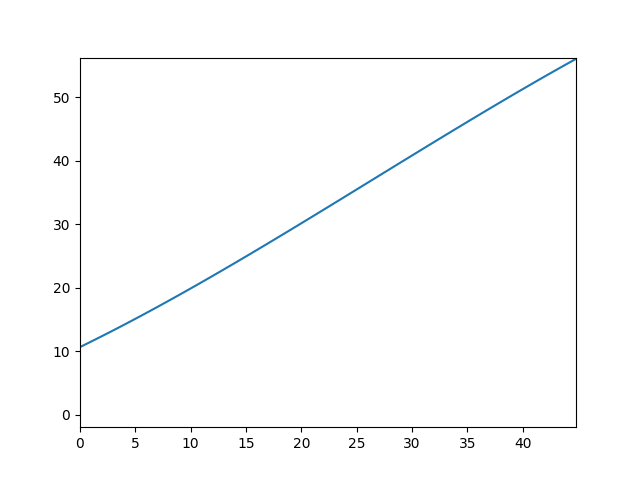
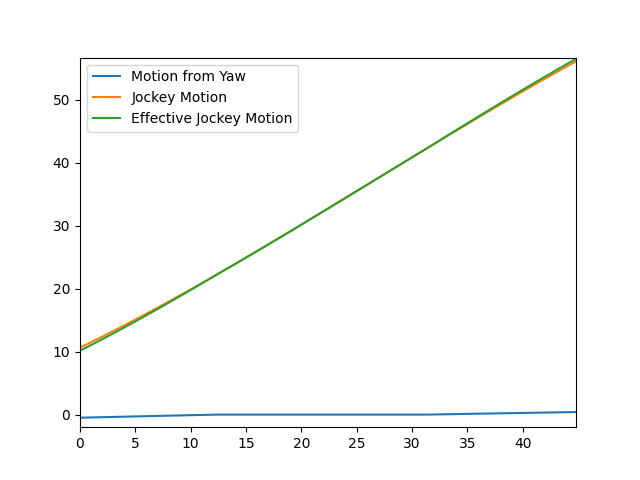
Update

diff --git a/derailleur_analysis.htm b/derailleur_analysis.htm
@@ -29,20 +29,20 @@
     <td>{{"%.2f" | format(info.physicalHighLimit)}}</td>
   </tr>
   <tr>
-    <th>Pull Ratio Averaged Across Pulling Runs</th>
-    <td>{{info["Pull Ratio Averaged Across Pulling Runs"]}}</td>
+    <th>Pull Ratio Averaged Across Pulling Runs (Ignoring Effect of Yaw)</th>
+    <td>{{info["Base Pull Ratio Averaged Across Pulling Runs"]}}</td>
   </tr>
   <tr>
-    <th>Pull Ratio Averaged Across Relaxing Runs</th>
-    <td>{{info["Pull Ratio Averaged Across Relaxing Runs"]}}</td>
+    <th>Pull Ratio Averaged Across Relaxing Runs (Ignoring Effect of Yaw)</th>
+    <td>{{info["Base Pull Ratio Averaged Across Relaxing Runs"]}}</td>
   </tr>
   <tr>
-    <th>Pull Ratio Averaged Across All Runs</th>
-    <td>{{info["Pull Ratio Averaged Across All Runs"]}}</td>
+    <th>Pull Ratio Averaged Across All Runs (Ignoring Effect of Yaw)</th>
+    <td>{{info["Base Pull Ratio Averaged Across All Runs"]}}</td>
   </tr>
   <tr>
-    <th>Pull Ratio 95% Confidence Interval</th>
-    <td>{{info["Pull Ratio 95% Confidence Interval"]}}</td>
+    <th>Pull Ratio 95% Confidence Interval (Ignoring Effect of Yaw)</th>
+    <td>{{info["Base Pull Ratio 95% Confidence Interval"]}}</td>
   </tr>
   {% if info.dataVideo %}
   <tr>

diff --git a/derailleurs/Microshift RD-M6205AM/default.htm b/derailleurs/Microshift RD-M6205AM/default.htm
@@ -21,7 +21,7 @@ Microshift Advent X 10-Speed
   </tr>
   <tr>
     <th>Pull Ratio</th>
-    <td>1.05</td>
+    <td>1.06</td>
   </tr>
   <tr>
     <th>Curve Coefficients</th>
@@ -36,19 +36,19 @@ Microshift Advent X 10-Speed
     <td>56.08</td>
   </tr>
   <tr>
-    <th>Pull Ratio Averaged Across Pulling Runs</th>
+    <th>Pull Ratio Averaged Across Pulling Runs (Ignoring Effect of Yaw)</th>
     <td>1.048 +/- 0.011</td>
   </tr>
   <tr>
-    <th>Pull Ratio Averaged Across Relaxing Runs</th>
+    <th>Pull Ratio Averaged Across Relaxing Runs (Ignoring Effect of Yaw)</th>
     <td>1.047 +/- 0.014</td>
   </tr>
   <tr>
-    <th>Pull Ratio Averaged Across All Runs</th>
+    <th>Pull Ratio Averaged Across All Runs (Ignoring Effect of Yaw)</th>
     <td>1.048 +/- 0.013</td>
   </tr>
   <tr>
-    <th>Pull Ratio 95% Confidence Interval</th>
+    <th>Pull Ratio 95% Confidence Interval (Ignoring Effect of Yaw)</th>
     <td>1.035 to 1.061</td>
   </tr>
   

diff --git a/derailleurs/Shimano Tiagra 4600 10-Speed/default.htm b/derailleurs/Shimano Tiagra 4600 10-Speed/default.htm
@@ -36,19 +36,19 @@ Shimano Tiagra 4600 10-Speed
     <td>49.72</td>
   </tr>
   <tr>
-    <th>Pull Ratio Averaged Across Pulling Runs</th>
+    <th>Pull Ratio Averaged Across Pulling Runs (Ignoring Effect of Yaw)</th>
     <td>1.668 +/- 0.011</td>
   </tr>
   <tr>
-    <th>Pull Ratio Averaged Across Relaxing Runs</th>
+    <th>Pull Ratio Averaged Across Relaxing Runs (Ignoring Effect of Yaw)</th>
     <td>1.679 +/- 0.015</td>
   </tr>
   <tr>
-    <th>Pull Ratio Averaged Across All Runs</th>
+    <th>Pull Ratio Averaged Across All Runs (Ignoring Effect of Yaw)</th>
     <td>1.674 +/- 0.017</td>
   </tr>
   <tr>
-    <th>Pull Ratio 95% Confidence Interval</th>
+    <th>Pull Ratio 95% Confidence Interval (Ignoring Effect of Yaw)</th>
     <td>1.657 to 1.691</td>
   </tr>
   

diff --git a/derailleurs/Shimano Ultegra RX 11-Speed/default.htm b/derailleurs/Shimano Ultegra RX 11-Speed/default.htm
@@ -36,19 +36,19 @@ Shimano Ultegra RX 11-Speed
     <td>56.42</td>
   </tr>
   <tr>
-    <th>Pull Ratio Averaged Across Pulling Runs</th>
+    <th>Pull Ratio Averaged Across Pulling Runs (Ignoring Effect of Yaw)</th>
     <td>1.509 +/- 0.010</td>
   </tr>
   <tr>
-    <th>Pull Ratio Averaged Across Relaxing Runs</th>
+    <th>Pull Ratio Averaged Across Relaxing Runs (Ignoring Effect of Yaw)</th>
     <td>1.510 +/- 0.006</td>
   </tr>
   <tr>
-    <th>Pull Ratio Averaged Across All Runs</th>
+    <th>Pull Ratio Averaged Across All Runs (Ignoring Effect of Yaw)</th>
     <td>1.509 +/- 0.008</td>
   </tr>
   <tr>
-    <th>Pull Ratio 95% Confidence Interval</th>
+    <th>Pull Ratio 95% Confidence Interval (Ignoring Effect of Yaw)</th>
     <td>1.501 to 1.517</td>
   </tr>
   

diff --git a/derailleurs/Campagnolo Ekar/default.htm b/derailleurs/Campagnolo Ekar/default.htm
@@ -36,19 +36,19 @@ Campagnolo Ekar 13-Speed
     <td>56.14</td>
   </tr>
   <tr>
-    <th>Pull Ratio Averaged Across Pulling Runs</th>
+    <th>Pull Ratio Averaged Across Pulling Runs (Ignoring Effect of Yaw)</th>
     <td>1.278 +/- 0.009</td>
   </tr>
   <tr>
-    <th>Pull Ratio Averaged Across Relaxing Runs</th>
+    <th>Pull Ratio Averaged Across Relaxing Runs (Ignoring Effect of Yaw)</th>
     <td>1.286 +/- 0.014</td>
   </tr>
   <tr>
-    <th>Pull Ratio Averaged Across All Runs</th>
+    <th>Pull Ratio Averaged Across All Runs (Ignoring Effect of Yaw)</th>
     <td>1.282 +/- 0.015</td>
   </tr>
   <tr>
-    <th>Pull Ratio 95% Confidence Interval</th>
+    <th>Pull Ratio 95% Confidence Interval (Ignoring Effect of Yaw)</th>
     <td>1.268 to 1.297</td>
   </tr>
   

diff --git a/derailleurs/Shimano Ultegra 6500 9-Speed/default.htm b/derailleurs/Shimano Ultegra 6500 9-Speed/default.htm
@@ -36,19 +36,19 @@ Shimano Ultegra 9-Speed
     <td>47.69</td>
   </tr>
   <tr>
-    <th>Pull Ratio Averaged Across Pulling Runs</th>
+    <th>Pull Ratio Averaged Across Pulling Runs (Ignoring Effect of Yaw)</th>
     <td>1.669 +/- 0.000</td>
   </tr>
   <tr>
-    <th>Pull Ratio Averaged Across Relaxing Runs</th>
+    <th>Pull Ratio Averaged Across Relaxing Runs (Ignoring Effect of Yaw)</th>
     <td>1.596 +/- 0.000</td>
   </tr>
   <tr>
-    <th>Pull Ratio Averaged Across All Runs</th>
+    <th>Pull Ratio Averaged Across All Runs (Ignoring Effect of Yaw)</th>
     <td>1.632 +/- 0.074</td>
   </tr>
   <tr>
-    <th>Pull Ratio 95% Confidence Interval</th>
+    <th>Pull Ratio 95% Confidence Interval (Ignoring Effect of Yaw)</th>
     <td>1.559 to 1.706</td>
   </tr>
   

diff --git a/derailleurs/Shimano Deore 11-Speed/default.htm b/derailleurs/Shimano Deore 11-Speed/default.htm
@@ -36,19 +36,19 @@ Shimano Deore 11-Speed
     <td>54.56</td>
   </tr>
   <tr>
-    <th>Pull Ratio Averaged Across Pulling Runs</th>
+    <th>Pull Ratio Averaged Across Pulling Runs (Ignoring Effect of Yaw)</th>
     <td>1.081 +/- 0.001</td>
   </tr>
   <tr>
-    <th>Pull Ratio Averaged Across Relaxing Runs</th>
+    <th>Pull Ratio Averaged Across Relaxing Runs (Ignoring Effect of Yaw)</th>
     <td>1.069 +/- 0.003</td>
   </tr>
   <tr>
-    <th>Pull Ratio Averaged Across All Runs</th>
+    <th>Pull Ratio Averaged Across All Runs (Ignoring Effect of Yaw)</th>
     <td>1.075 +/- 0.012</td>
   </tr>
   <tr>
-    <th>Pull Ratio 95% Confidence Interval</th>
+    <th>Pull Ratio 95% Confidence Interval (Ignoring Effect of Yaw)</th>
     <td>1.063 to 1.087</td>
   </tr>
   

diff --git a/derailleurs/Shimano Deore M5120/default.htm b/derailleurs/Shimano Deore M5120/default.htm
@@ -36,19 +36,19 @@ Shimano Deore 11-Speed
     <td>52.21</td>
   </tr>
   <tr>
-    <th>Pull Ratio Averaged Across Pulling Runs</th>
+    <th>Pull Ratio Averaged Across Pulling Runs (Ignoring Effect of Yaw)</th>
     <td>1.112 +/- 0.006</td>
   </tr>
   <tr>
-    <th>Pull Ratio Averaged Across Relaxing Runs</th>
+    <th>Pull Ratio Averaged Across Relaxing Runs (Ignoring Effect of Yaw)</th>
     <td>1.094 +/- 0.009</td>
   </tr>
   <tr>
-    <th>Pull Ratio Averaged Across All Runs</th>
+    <th>Pull Ratio Averaged Across All Runs (Ignoring Effect of Yaw)</th>
     <td>1.103 +/- 0.020</td>
   </tr>
   <tr>
-    <th>Pull Ratio 95% Confidence Interval</th>
+    <th>Pull Ratio 95% Confidence Interval (Ignoring Effect of Yaw)</th>
     <td>1.083 to 1.123</td>
   </tr>
   

diff --git a/derailleurs/Shimano Deore M6100/default.htm b/derailleurs/Shimano Deore M6100/default.htm
@@ -36,19 +36,19 @@ Shimano Deore 12-Speed
     <td>56.50</td>
   </tr>
   <tr>
-    <th>Pull Ratio Averaged Across Pulling Runs</th>
+    <th>Pull Ratio Averaged Across Pulling Runs (Ignoring Effect of Yaw)</th>
     <td>1.073 +/- 0.002</td>
   </tr>
   <tr>
-    <th>Pull Ratio Averaged Across Relaxing Runs</th>
+    <th>Pull Ratio Averaged Across Relaxing Runs (Ignoring Effect of Yaw)</th>
     <td>1.074 +/- 0.001</td>
   </tr>
   <tr>
-    <th>Pull Ratio Averaged Across All Runs</th>
+    <th>Pull Ratio Averaged Across All Runs (Ignoring Effect of Yaw)</th>
     <td>1.073 +/- 0.002</td>
   </tr>
   <tr>
-    <th>Pull Ratio 95% Confidence Interval</th>
+    <th>Pull Ratio 95% Confidence Interval (Ignoring Effect of Yaw)</th>
     <td>1.071 to 1.075</td>
   </tr>
   

diff --git a/derailleurs/Shimano CUES 10-Speed/default.htm b/derailleurs/Shimano CUES 10-Speed/default.htm
@@ -36,19 +36,19 @@ Shimano CUES 10-Speed
     <td>50.87</td>
   </tr>
   <tr>
-    <th>Pull Ratio Averaged Across Pulling Runs</th>
+    <th>Pull Ratio Averaged Across Pulling Runs (Ignoring Effect of Yaw)</th>
     <td>1.062 +/- 0.005</td>
   </tr>
   <tr>
-    <th>Pull Ratio Averaged Across Relaxing Runs</th>
+    <th>Pull Ratio Averaged Across Relaxing Runs (Ignoring Effect of Yaw)</th>
     <td>1.054 +/- 0.018</td>
   </tr>
   <tr>
-    <th>Pull Ratio Averaged Across All Runs</th>
+    <th>Pull Ratio Averaged Across All Runs (Ignoring Effect of Yaw)</th>
     <td>1.058 +/- 0.015</td>
   </tr>
   <tr>
-    <th>Pull Ratio 95% Confidence Interval</th>
+    <th>Pull Ratio 95% Confidence Interval (Ignoring Effect of Yaw)</th>
     <td>1.043 to 1.074</td>
   </tr>
   

diff --git a/derailleurs/SRAM Apex 11-Speed/default.htm b/derailleurs/SRAM Apex 11-Speed/default.htm
@@ -36,19 +36,19 @@ SRAM Apex 1 11-Speed
     <td>55.80</td>
   </tr>
   <tr>
-    <th>Pull Ratio Averaged Across Pulling Runs</th>
+    <th>Pull Ratio Averaged Across Pulling Runs (Ignoring Effect of Yaw)</th>
     <td>1.226 +/- 0.000</td>
   </tr>
   <tr>
-    <th>Pull Ratio Averaged Across Relaxing Runs</th>
+    <th>Pull Ratio Averaged Across Relaxing Runs (Ignoring Effect of Yaw)</th>
     <td>1.224 +/- 0.000</td>
   </tr>
   <tr>
-    <th>Pull Ratio Averaged Across All Runs</th>
+    <th>Pull Ratio Averaged Across All Runs (Ignoring Effect of Yaw)</th>
     <td>1.225 +/- 0.003</td>
   </tr>
   <tr>
-    <th>Pull Ratio 95% Confidence Interval</th>
+    <th>Pull Ratio 95% Confidence Interval (Ignoring Effect of Yaw)</th>
     <td>1.222 to 1.227</td>
   </tr>
   

diff --git a/derailleurs/Shimano 105 11-speed/default.htm b/derailleurs/Shimano 105 11-speed/default.htm
@@ -36,19 +36,19 @@ Shimano 105 11-Speed
     <td>57.36</td>
   </tr>
   <tr>
-    <th>Pull Ratio Averaged Across Pulling Runs</th>
+    <th>Pull Ratio Averaged Across Pulling Runs (Ignoring Effect of Yaw)</th>
     <td>1.455 +/- 0.010</td>
   </tr>
   <tr>
-    <th>Pull Ratio Averaged Across Relaxing Runs</th>
+    <th>Pull Ratio Averaged Across Relaxing Runs (Ignoring Effect of Yaw)</th>
     <td>1.444 +/- 0.028</td>
   </tr>
   <tr>
-    <th>Pull Ratio Averaged Across All Runs</th>
+    <th>Pull Ratio Averaged Across All Runs (Ignoring Effect of Yaw)</th>
     <td>1.449 +/- 0.024</td>
   </tr>
   <tr>
-    <th>Pull Ratio 95% Confidence Interval</th>
+    <th>Pull Ratio 95% Confidence Interval (Ignoring Effect of Yaw)</th>
     <td>1.426 to 1.473</td>
   </tr>
   
